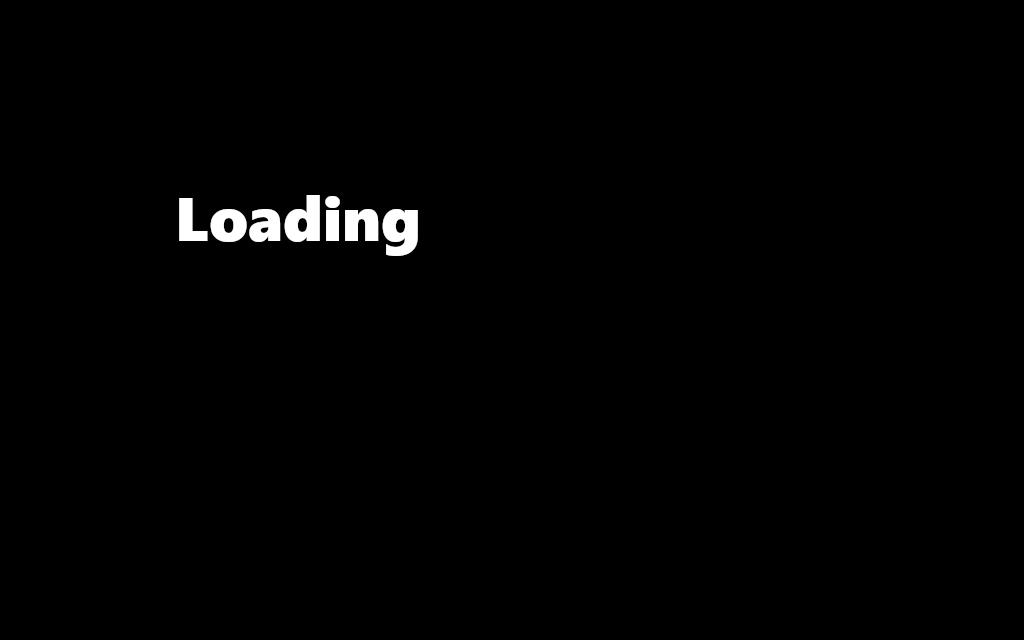
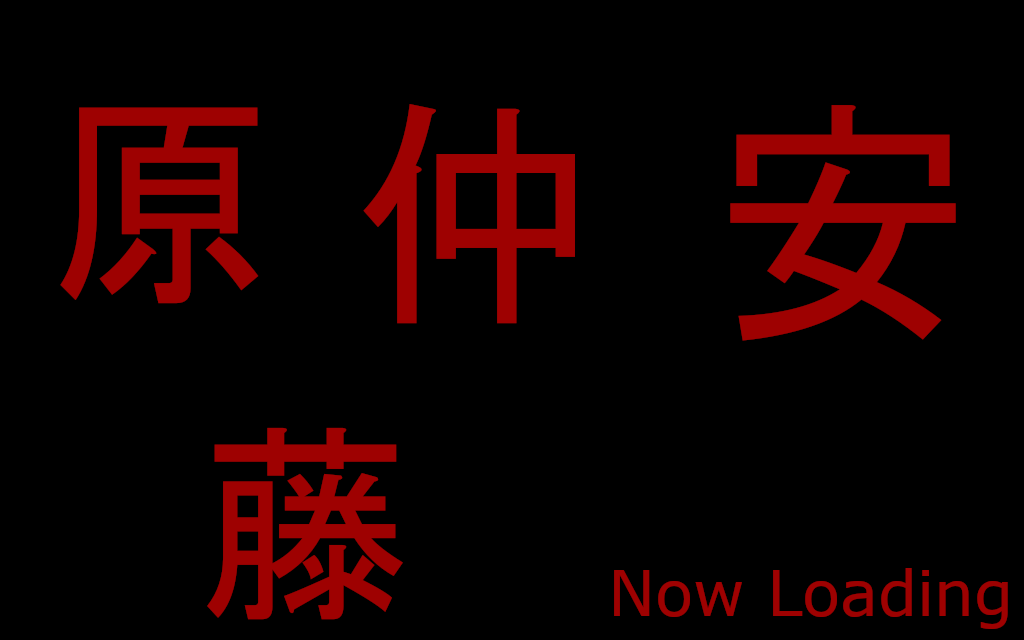
タイトルとローディング画面の変更

diff --git a/gouyoku/Src/Object/Actor/Object/Volleyball.cpp b/gouyoku/Src/Object/Actor/Object/Volleyball.cpp
@@ -13,7 +13,7 @@ Volleyball::~Volleyball()
 void Volleyball::InitLoad(void)
 {
 	tag_ = TAG::IHEN_OBJECT;
-	modelId_ = MV1LoadModel("Data/object/Ball/volleyball_1.mv1");
+	//modelId_ = MV1LoadModel("Data/object/Ball/volleyball_1.mv1");
 }
 
 void Volleyball::InitTransform(void)
